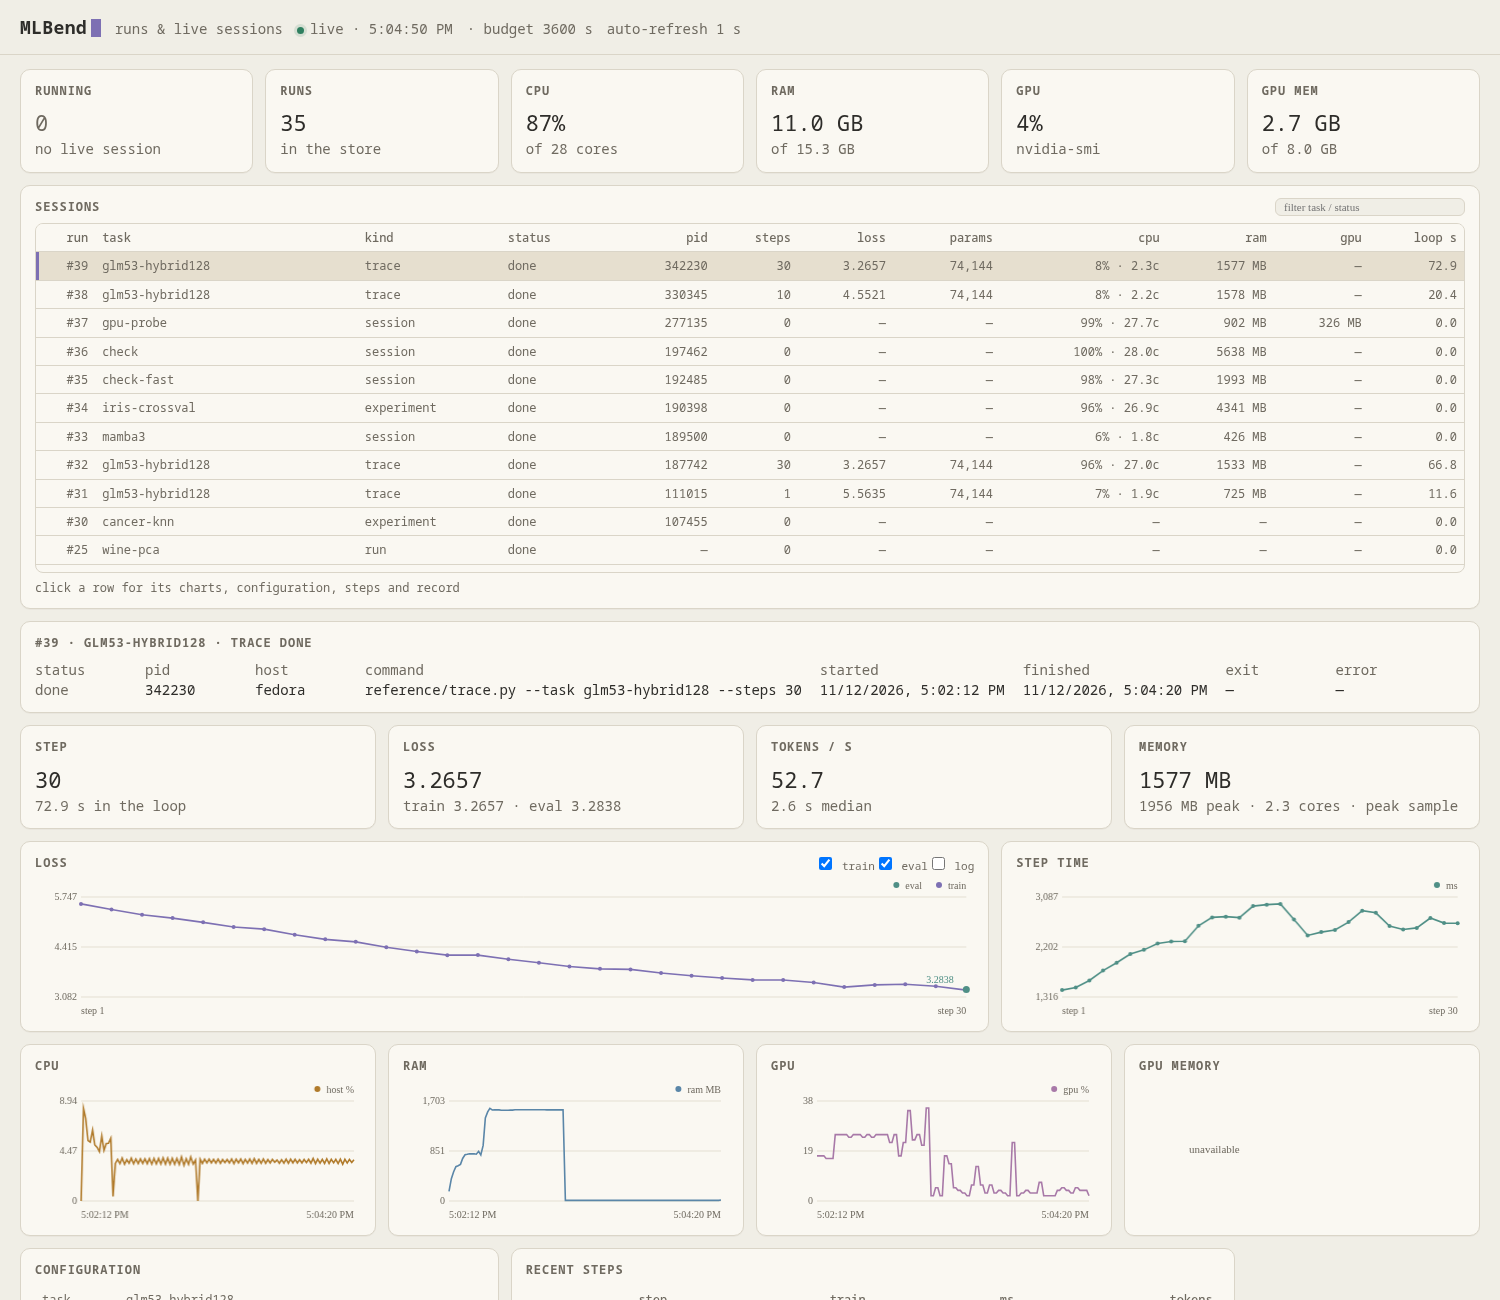
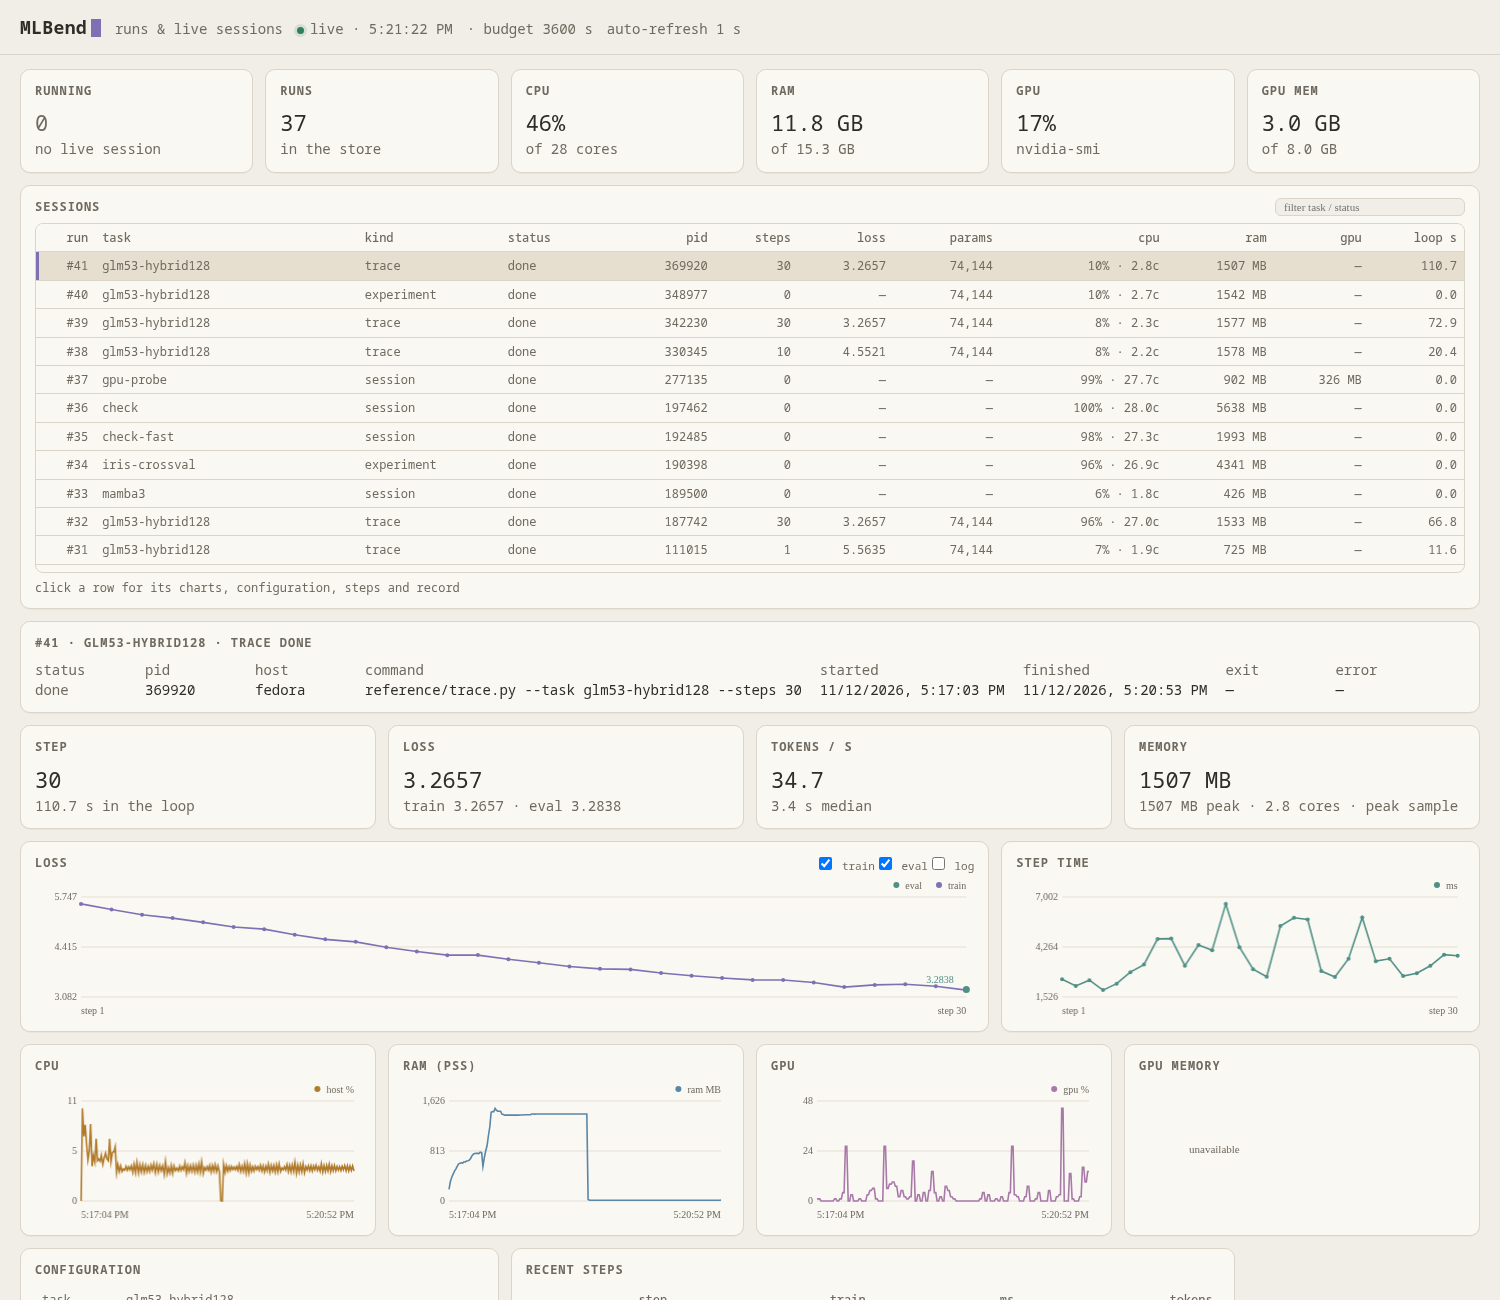
dash: measure RAM as PSS over the process tree
Summed RSS counted the same shared library once per compiler or worker.
The sampler now reads Pss from smaps_rollup (VmRSS fallback), keeps the
largest single high-water mark, and labels the chart ram (pss).  The
README screenshot is run 41: 30 steps, train 3.2657, eval 3.2838, PSS max
1507 MB.

diff --git a/reference/dashboard.py b/reference/dashboard.py
@@ -5,7 +5,8 @@
 
 One page for every run in `results/runs.sqlite3` (`reference/runs.py`), not one
 task at a time. The overview lists running and finished runs with their CPU (host share and
-cores), resident memory, GPU memory and parameter count; selecting a run shows its loss
+cores), resident memory (PSS over the process tree), GPU memory and parameter
+count; selecting a run shows its loss
 and step time, its extra signals, its system samples, its steps, and the record
 its program wrote. Several sessions can be live at once because the sampler
 walks each run's process tree, so a Python test that spawns Bend is sampled as
@@ -112,15 +113,24 @@ def _stat(pid):
 
 
 def _status(pid):
+    values = {}
     try:
-        values = {}
         for line in open(f"/proc/{pid}/status"):
             if line.startswith(("VmRSS:", "VmHWM:")):
                 key, value = line.split(":", 1)
                 values[key] = int(value.split()[0])
-        return values
     except (OSError, ValueError):
-        return {}
+        pass
+    # PSS divides a shared page among its users, so a tree sum is not inflated
+    # by the same library mapped in every compiler or worker process.
+    try:
+        for line in open(f"/proc/{pid}/smaps_rollup"):
+            if line.startswith("Pss:"):
+                values["Pss"] = int(line.split()[1])
+                break
+    except (OSError, ValueError):
+        pass
+    return values
 
 
 def process_tree(pid):
@@ -197,9 +207,10 @@ class Sampler(threading.Thread):
             if stat is None:
                 continue
             ticks += stat[1]
-            rss += stat[2] * (os.sysconf("SC_PAGE_SIZE") // 1024)
             status = _status(one)
-            hwm += status.get("VmHWM", 0)
+            rss += status.get("Pss", status.get(
+                "VmRSS", stat[2] * (os.sysconf("SC_PAGE_SIZE") // 1024)))
+            hwm = max(hwm, status.get("VmHWM", 0))
             prev = self._prev_proc.get(one)
             if prev is not None:
                 dt = now - prev[1]
@@ -354,6 +365,7 @@ def read_json(path):
 
 
 def state(run_id, fallback):
+    """The selected run's record, steps, samples and live process stats."""
     run = runs.get_run(run_id) if run_id else None
     if run is None and run_id is None:
         latest = runs.list_runs(limit=1)
@@ -377,6 +389,7 @@ def state(run_id, fallback):
         cpu = max((x["cpu"] or 0) for x in all_samples)
         rss = max((x["rss_kb"] or 0) for x in all_samples)
         hwm = max((x["hwm_kb"] or 0) for x in all_samples)
+        hwm = max(hwm, rss)
         gpu = max((x["gpu_mem_kb"] or 0) for x in all_samples)
         proc = {"cpu": cpu, "rss_kb": rss, "hwm_kb": hwm or rss,
                 "cores": cpu * fallback["sampler"].ncpu / 100.0,
@@ -491,7 +504,7 @@ a{color:var(--accent2)}
 </h2><canvas id="losschart"></canvas></div>
 <div class="card s4" id="cmschart" style="display:none"><h2>step time</h2><canvas id="mschart"></canvas></div>
 <div class="card s3" id="ccpu" style="display:none"><h2>cpu</h2><canvas id="cpuchart"></canvas></div>
-<div class="card s3" id="cram" style="display:none"><h2>ram</h2><canvas id="ramchart"></canvas></div>
+<div class="card s3" id="cram" style="display:none"><h2>ram (pss)</h2><canvas id="ramchart"></canvas></div>
 <div class="card s3" id="cgpu" style="display:none"><h2>gpu</h2><canvas id="gpuutilchart"></canvas></div>
 <div class="card s3" id="cgpuproc" style="display:none"><h2>gpu memory</h2><canvas id="gpuprocchart"></canvas></div>
 <div class="card s8" id="cextra" style="display:none"><h2>extra signals</h2><div id="extras" style="display:grid;grid-template-columns:1fr 1fr;gap:8px"></div><div id="extrahint" class="hint"></div></div>
@@ -599,7 +612,7 @@ function renderOverview(){
  $("gpumemsub").textContent=gpu?`of ${(gpu.total_mb/1024).toFixed(1)} GB`:"unavailable";
  $("budget").innerHTML=`· budget ${overview.budget} s`;
  const shown=runs.filter(r=>!filter||(r.task+" "+r.kind+" "+r.status).toLowerCase().includes(filter));
- let rows='<table><tr><th class="num">run</th><th>task</th><th>kind</th><th>status</th><th class="num">pid</th><th class="num">steps</th><th class="num">loss</th><th class="num">params</th><th class="num">cpu</th><th class="num">ram</th><th class="num">gpu</th><th class="num">loop s</th></tr>';
+ let rows='<table><tr><th class="num">run</th><th>task</th><th>kind</th><th>status</th><th class="num">pid</th><th class="num">steps</th><th class="num">loss</th><th class="num">params</th><th class="num">cpu</th><th class="num" title="PSS over the process tree">ram</th><th class="num">gpu</th><th class="num">loop s</th></tr>';
  for(const r of shown){
   const p=r.proc||{};
   rows+=`<tr class="run ${r.status} ${r.id===selected?"sel":""}" data-id="${r.id}"><td class="num">#${r.id}</td><td>${esc(r.task)}</td><td>${esc(r.kind||"run")}</td><td>${statusCell(r.status)}</td><td class="num">${r.pid??"—"}</td><td class="num">${r.steps}</td><td class="num">${fmt(r.last_loss)}</td><td class="num">${r.params==null?"—":intfmt(r.params)}</td><td class="num">${p.cpu==null?"—":p.cpu.toFixed(0)+"%"+(p.cores!=null?` · ${p.cores.toFixed(1)}c`:"")}</td><td class="num">${p.rss_kb?((p.rss_kb/1024).toFixed(0)+" MB"):"—"}</td><td class="num">${p.gpu_proc_mb?(p.gpu_proc_mb.toFixed(0)+" MB"):"—"}</td><td class="num">${Number(r.loop_s||0).toFixed(1)}</td></tr>`;

diff --git a/docs/agents/handoff.md b/docs/agents/handoff.md
@@ -46,9 +46,10 @@ a run and the selected row scrolls into view; the sessions table has a filter
 for task, kind or status.
 
 CPU is now a run's **share of the host** over the cores it may use
-(`sched_getaffinity`), with the core count beside it (`27% · 7.4c`); the GPU
-axis is capped at 100 and the GPU `108%` label is gone. The broken readings are
-ISSUE-112 and the peak-sample confusion is ISSUE-116 in the ledger. The page
+(`sched_getaffinity`), with the core count beside it (`27% · 7.4c`); RAM is
+PSS from `smaps_rollup`, not summed RSS; the GPU axis is capped at 100 and the
+GPU `108%` label is gone. The broken readings are ISSUE-112, ISSUE-116 and
+ISSUE-117 in the ledger. The page
 uses the Bend cream/charcoal/purple theme, and `docs/assets/dashboard.png` is
 committed and embedded in `README.md`.
 
@@ -56,8 +57,9 @@ The GLM trainer now ends a trace with `val_loss` (the final held-out batch,
 after saving weights) and `trace.py` stores it as `runs.eval_loss`.
 `make trace TASK=glm53-hybrid128 STEPS=10` measured train `4.5521`, eval
 `4.4326`, 20.4 s loop, run 38. The 30-step repeat, run 39, measured train
-`3.2657`, eval `3.2838`, loop `72.9 s`, build `53.8 s`; that is the page in
-`docs/assets/dashboard.png`. The loss panel shows the eval point at the last
+`3.2657`, eval `3.2838`, loop `72.9 s`, build `53.8 s`. Run 41 repeats it after
+the PSS sampler: train `3.2657`, eval `3.2838`, loop `110.7 s` under load,
+PSS max `1507 MB`; that is the page in `docs/assets/dashboard.png`. The loss panel shows the eval point at the last
 step and the recent-steps table has an `eval` column. Per-step eval is not
 possible with the linear `Train` (a `Train` is `Type`, so it cannot be used
 for a validation forward and the next step); the final held-out loss is what
@@ -75,8 +77,9 @@ More runs through it, all under the one-hour rule:
 | 37 | `make session TASK=gpu-probe CMD="reference/.venv-rf/bin/python reference/gpu_probe.py"` | `50.1 s`, 48 samples, GPU `52-100%`, process GPU memory up to `326 MB` |
 | 39 | `make trace TASK=glm53-hybrid128 STEPS=30` | train `5.5635 -> 3.2657`, eval `3.2838`, loop `72.9 s` |
 | 40 | `make experiment TASK=glm53-hybrid128` | PASS, `5m55` (mostly build), one step |
+| 41 | `make trace TASK=glm53-hybrid128 STEPS=30` (PSS sampler) | train `3.2657`, eval `3.2838`, loop `110.7 s`, PSS max `1507 MB` |
 
-The store then held 36 runs. The page API returned `200`, `/api/overview`
+The store then held 37 runs. The page API returned `200`, `/api/overview`
 reported live CPU/RAM/GPU, and the JavaScript parses under `node --check`. Run
 36 is the long-run proof: the sampler recorded 2,811 rows over `49.58 min`,
 with CPU spikes to `3,159%` (parallel builds across cores), RAM to `6,088 MB`

diff --git a/docs/CHANGELOG.md b/docs/CHANGELOG.md
@@ -23,13 +23,15 @@ What changed for the people who run the lab. Internal refactors are not listed.
   no steps or samples hides those cards. `?run=ID` opens a run directly, and
   the sessions table has a filter for task, kind or status.
 - CPU is a run's **share of the host** with its core count (`27% · 7.4c`), not
-  a sum of per-core percentages; the GPU axis is capped at 100. The page uses
-  the Bend cream/charcoal/purple theme and the README embeds
+  a sum of per-core percentages; RAM is PSS over the process tree, not summed
+  RSS; the GPU axis is capped at 100. The page uses the Bend
+  cream/charcoal/purple theme and the README embeds
   `docs/assets/dashboard.png`.
 - The GLM trace writes a final held-out `val_loss`; `trace.py` stores it as
   `runs.eval_loss` and the loss chart shows it at the last step beside train.
   `make trace TASK=glm53-hybrid128 STEPS=10` measured train `4.5521`, eval
-  `4.4326`; the 30-step repeat measured train `3.2657`, eval `3.2838`.
+  `4.4326`; the 30-step repeats measured train `3.2657`, eval `3.2838`, with
+  PSS max `1507 MB` after the sampler change.
 - `./scripts/dashboard.sh start` leaves the server running under
   setsid+nohup (`status` and `stop` too); `make dashboard` stays foreground.
 - `make session TASK=<name> CMD="..."` wraps any test command in the store

diff --git a/README.md b/README.md
@@ -157,8 +157,9 @@ server) serves the in-house W&B view at `http://127.0.0.1:8787/`: every run in
 memory, each run's parameter count and configuration, and the selected run's
 train and eval loss, step time, extra signals, system samples, steps and
 record. A run's CPU is its **share of the host** with the core count beside
-it; GPU usage comes from `nvidia-smi`. The loss panel has `train`, `eval` and
-`log` toggles; `?run=ID` opens a run directly.
+it; RAM is **PSS** over the process tree, so shared libraries are counted
+once; GPU usage comes from `nvidia-smi`. The loss panel has `train`, `eval`
+and `log` toggles; `?run=ID` opens a run directly.
 
 Training runs register through `make trace` (the GLM trace now also records the
 final held-out `val_loss`), tests through `make session TASK=... CMD="..."`,
